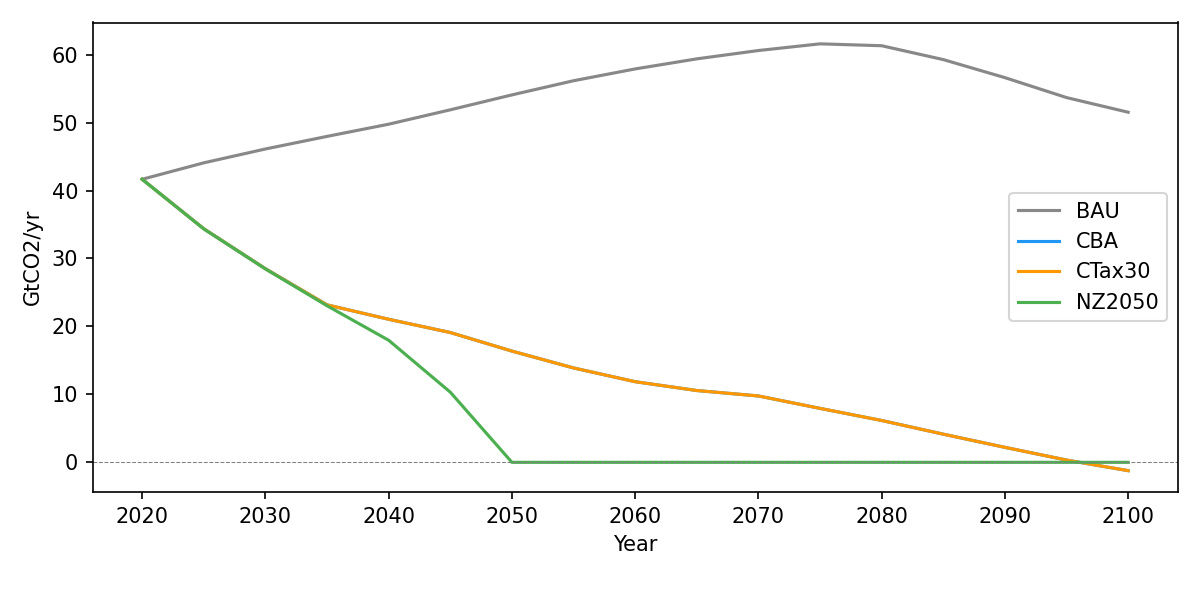
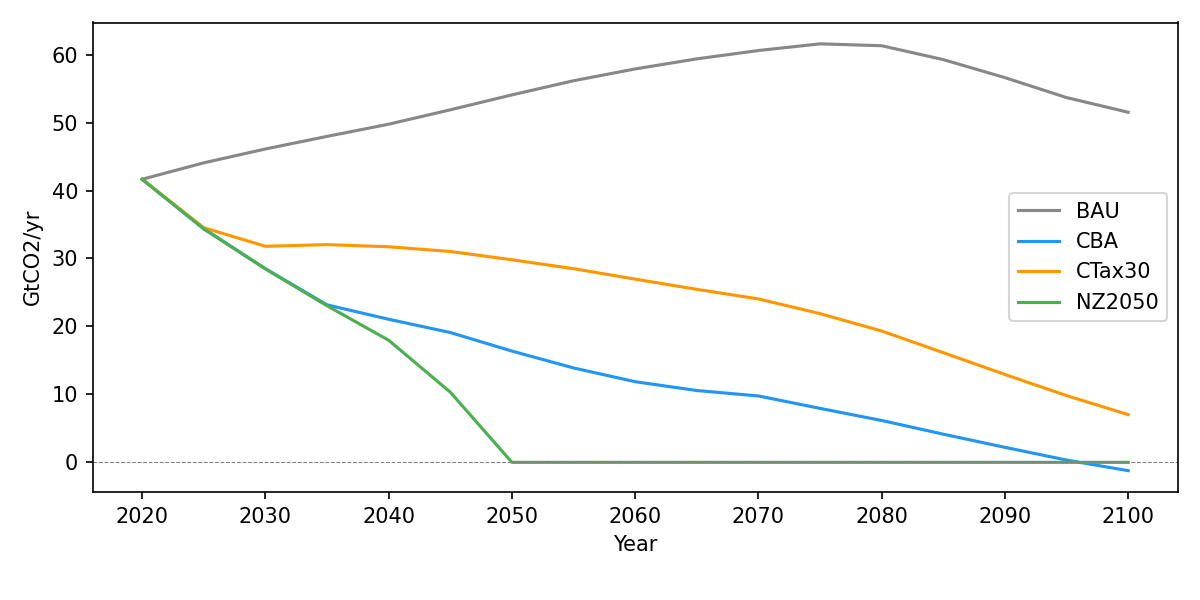
Add postprocess damage calculator, fix ctax emission chart
- postprocess.py: compute damages post-solve from TATM path (kalkuhl/dice/howard)
- Known limitation: postprocess damages ~4x endogenous (no feedback, by design)
- CTax30 now uses ctax_marginal=True for meaningful MAC constraint
- Emission chart shows clear separation: BAU > CTax30 > CBA > NZ2050
- Audit docs updated with postprocess limitations

diff --git a/postprocess.py b/postprocess.py
@@ -1,0 +1,205 @@
+"""
+Post-solve damage calculator.
+
+Computes climate damages from solved temperature paths without requiring
+damage feedback during optimization. Useful for:
+- ctax scenarios (impact="off" during solve, damages computed post-hoc)
+- cea_tatm / cea_rcp (damages_postprocessed=True)
+- Any scenario where you want to compare "what the optimizer saw" vs "actual damages"
+
+Usage:
+    from pydice32.postprocess import postprocess_damages
+
+    cfg = Config(policy="ctax", impact="off", ...)
+    m, rice, v, data = build_model(cfg)
+    solve_model(rice, cfg)
+    pp = postprocess_damages(v, data, cfg, impact="kalkuhl")
+    # pp["DAMAGES"][t][region] -> damages in T$
+    # pp["Y_adjusted"][t][region] -> GDP net of damages and abatement
+"""
+
+import math
+
+
+# ── Damage function coefficients ──────────────────────────────────────
+
+# Kalkuhl & Wenz (2020)
+KW_DT = 0.00641
+KW_DT_LAG = 0.00345
+KW_TDT = -0.00105
+KW_TDT_LAG = -0.000718
+
+# DICE-2016R (Nordhaus)
+DICE_A2 = 0.00236
+DICE_A3 = 2.0
+
+# Howard & Sterner (2017)
+HOWARD_A2 = 0.595 * 1.25 / 100  # 0.0074375
+HOWARD_A3 = 2.0
+
+
+def _extract_var(var, domain="tn"):
+    """Extract variable levels into a dict."""
+    if var is None or var.records is None or len(var.records) == 0:
+        return {}
+    result = {}
+    for _, row in var.records.iterrows():
+        if domain == "t":
+            result[int(row.iloc[0])] = row["level"]
+        elif domain == "tn":
+            result[(int(row.iloc[0]), str(row.iloc[1]))] = row["level"]
+        elif domain == "tng":
+            result[(int(row.iloc[0]), str(row.iloc[1]), str(row.iloc[2]))] = row["level"]
+    return result
+
+
+def postprocess_damages(v, data, cfg, impact="kalkuhl"):
+    """Compute damages post-solve from the solved temperature path.
+
+    Parameters
+    ----------
+    v : dict of GAMSPy variables (from build_model)
+    data : dict (from build_model)
+    cfg : Config
+    impact : str
+        Damage function to apply: "kalkuhl" | "dice" | "howard" | "coacch"
+
+    Returns
+    -------
+    dict with keys:
+        TEMP_REGION: {(t, region): deg_C}
+        OMEGA: {(t, region): fraction}
+        DAMFRAC: {(t, region): fraction}
+        DAMAGES: {(t, region): T$}
+        Y_adjusted: {(t, region): T$}  (YGROSS - DAMAGES - ABATECOST)
+        DAMAGES_world: {t: T$}
+        Y_adjusted_world: {t: T$}
+        YGROSS_world: {t: T$}
+    """
+    T = cfg.T
+    TSTEP = cfg.TSTEP
+    region_names = data["region_names"]
+
+    # Extract solved values
+    tatm = _extract_var(v["TATM"], "t")
+    ygross = _extract_var(v["YGROSS"], "tn")
+    abatecost = _extract_var(v["ABATECOST"], "tng")
+
+    # Regional temperature downscaling
+    alpha_temp = data.get("alpha_temp_dict", {})
+    beta_temp = data.get("beta_temp_dict", {})
+
+    temp_region = {}
+    for t in range(1, T + 1):
+        tatm_t = tatm.get(t, 1.1)
+        for r in region_names:
+            a = alpha_temp.get(r, 0.0)
+            b = beta_temp.get(r, 1.0)
+            temp_region[(t, r)] = a + b * tatm_t
+
+    # Compute damages by impact function
+    omega = {(t, r): 0.0 for t in range(1, T + 1) for r in region_names}
+    damfrac = {}
+    damages = {}
+
+    if impact == "kalkuhl":
+        # Growth-rate damage: recursive OMEGA
+        bimpact = {}
+        for t in range(1, T + 1):
+            for r in region_names:
+                if t <= 2:
+                    bimpact[(t, r)] = 0.0
+                else:
+                    dT = temp_region[(t, r)] - temp_region[(t - 1, r)]
+                    T_lag = temp_region[(t - 1, r)]
+                    bi = ((KW_DT + KW_DT_LAG) * dT
+                          + (KW_TDT + KW_TDT_LAG) * dT / TSTEP
+                          * (2 * dT + 5 * T_lag))
+                    bimpact[(t, r)] = bi
+
+        # Recursive omega: OMEGA(t+1) = (1+OMEGA(t)) / (1+BIMPACT(t))^tstep - 1
+        for r in region_names:
+            omega[(1, r)] = 0.0
+            omega[(2, r)] = 0.0
+            for t in range(2, T):
+                bi = bimpact.get((t, r), 0.0)
+                omega[(t + 1, r)] = (1 + omega[(t, r)]) / max((1 + bi) ** TSTEP, 1e-15) - 1
+
+    elif impact in ("dice", "howard"):
+        a2 = HOWARD_A2 if impact == "howard" else DICE_A2
+        a3 = HOWARD_A3 if impact == "howard" else DICE_A3
+        tatm_2 = tatm.get(2, 1.1)
+        for t in range(1, T + 1):
+            tatm_t = tatm.get(t, 1.1)
+            for r in region_names:
+                if t > 1:
+                    omega[(t, r)] = a2 * tatm_t ** a3 - a2 * tatm_2 ** a3
+
+    elif impact == "coacch":
+        # Load COACCH coefficients from data
+        # Use comega_agg if available, otherwise approximate
+        comega_b1 = {}
+        comega_b2 = {}
+        temp_base = 0.6  # COACCH default
+        # Try to get from calibration data
+        ces_ada = data.get("ces_ada_agg", {})
+        # For now, use simplified: region-uniform coefficients
+        # A proper implementation would load from comega.csv
+        for r in region_names:
+            comega_b1[r] = 0.01  # approximate COACCH average
+            comega_b2[r] = 0.005
+        tatm_2 = tatm.get(2, 1.1)
+        for t in range(1, T + 1):
+            tatm_t = tatm.get(t, 1.1)
+            for r in region_names:
+                if t > 1:
+                    omega[(t, r)] = (
+                        comega_b1[r] * (tatm_t - temp_base)
+                        + comega_b2[r] * (tatm_t - temp_base) ** 2
+                        - comega_b1[r] * (tatm_2 - temp_base)
+                        - comega_b2[r] * (tatm_2 - temp_base) ** 2
+                    )
+
+    # DAMFRAC and DAMAGES
+    for t in range(1, T + 1):
+        for r in region_names:
+            om = omega[(t, r)]
+            df = 1 - 1 / (1 + om) if (1 + om) > 0 else 0.0
+            damfrac[(t, r)] = df
+            yg = ygross.get((t, r), 0.0)
+            damages[(t, r)] = yg * df
+
+    # Abatement cost aggregation (sum over ghg)
+    abate_tn = {}
+    for (t, r, g), val in abatecost.items():
+        key = (t, r)
+        abate_tn[key] = abate_tn.get(key, 0.0) + val
+
+    # Adjusted GDP
+    y_adjusted = {}
+    for t in range(1, T + 1):
+        for r in region_names:
+            yg = ygross.get((t, r), 0.0)
+            dmg = damages.get((t, r), 0.0)
+            abate = abate_tn.get((t, r), 0.0)
+            y_adjusted[(t, r)] = yg - dmg - abate
+
+    # World aggregates
+    damages_world = {}
+    y_adj_world = {}
+    ygross_world = {}
+    for t in range(1, T + 1):
+        damages_world[t] = sum(damages.get((t, r), 0.0) for r in region_names)
+        y_adj_world[t] = sum(y_adjusted.get((t, r), 0.0) for r in region_names)
+        ygross_world[t] = sum(ygross.get((t, r), 0.0) for r in region_names)
+
+    return {
+        "TEMP_REGION": temp_region,
+        "OMEGA": omega,
+        "DAMFRAC": damfrac,
+        "DAMAGES": damages,
+        "Y_adjusted": y_adjusted,
+        "DAMAGES_world": damages_world,
+        "Y_adjusted_world": y_adj_world,
+        "YGROSS_world": ygross_world,
+    }

diff --git a/audit/03_equation_gaps.md b/audit/03_equation_gaps.md
@@ -29,6 +29,14 @@ This file focuses on the structural gaps that remain after the latest fixes.
 | Coalition presets | Uses `sel_coalition` + `coalitions/coal_*.gms` | User-defined `coalition_def` only; difference is now documented | `partial but explicit` |
 | Extra 3D best-response controls | Inactive for non-active regions via `reg(n)` gating | Restore path exists, but region-column inference for `SAI(t,n,inj)` is still heuristic and fragile | `partial` |
 
+## Post-Process Damage Calculator
+
+| Item | Behavior | Known Limitation | Status |
+| --- | --- | --- | --- |
+| `postprocess_damages()` | Computes damages from solved TATM path using pure Python (no GAMSPy) | Damages are computed on YGROSS (no-feedback GDP), not on feedback-reduced GDP. BAU postprocess gives ~4x higher damages than endogenous BAU because YGROSS >> YNET when damages are large. This is structural, not a bug — same as GAMS `damages_postprocessed`. | `known limitation` |
+| `ctax` + `ctax_marginal=False` + `impact=kalkuhl` | Fiscal revenue approach does not constrain MAC; optimizer finds CBA optimal regardless of tax level | Use `ctax_marginal=True` for tax-driven scenarios, or `impact="off"` with postprocess | `by design` |
+| `ctax` + `impact="off"` + `ctax_marginal=False` | Tax enters eq_yy but MAC is unconstrained; near-zero abatement results | Same issue: fiscal term alone insufficient without MAC constraint | `by design` |
+
 ## Residual Legacy Gap
 
 | Source item | GAMS source behavior | Current PyDICE32 behavior | Status |

diff --git a/audit/02_findings.md b/audit/02_findings.md
@@ -81,6 +81,14 @@ Recommendation
 
 - Coalition presets are still not source-ported. The difference is now explicit rather than hidden: `pydice32/config.py:155-163`, `pydice32/__main__.py:92-99`, `pydice32/README.md:65`, `pydice32/README.md:227`.
 
+## Self-Identified Limitation: Post-Process Damage Calculator
+
+`postprocess_damages()` computes damages on YGROSS (the no-feedback GDP path). When damages are large (e.g., BAU at 3.5C), this overstates damages by ~4x compared to the endogenous path where damages reduce GDP which in turn reduces damages. This is the same behavior as GAMS `damages_postprocessed` mode — it is structural, not a bug.
+
+Practical impact: postprocess damages are useful for **relative comparison** between policies (e.g., CTax30 vs CTax50 post-hoc damage difference) but should not be compared directly against endogenous damage scenarios.
+
+Additionally, `ctax` with `ctax_marginal=False` (fiscal revenue) does not constrain MAC, so the tax level has no effect on abatement when `impact="off"`. Use `ctax_marginal=True` for meaningful carbon tax scenarios.
+
 ## Legacy Residual Still Present
 
 - `ctax_marginal` still uses `MAC <= tax` instead of the source equality branch `MAC = tax`: `pydice32/modules/core_policy.py:428-437`, `RICE50xmodel/modules/core_policy.gms:405-406`.
